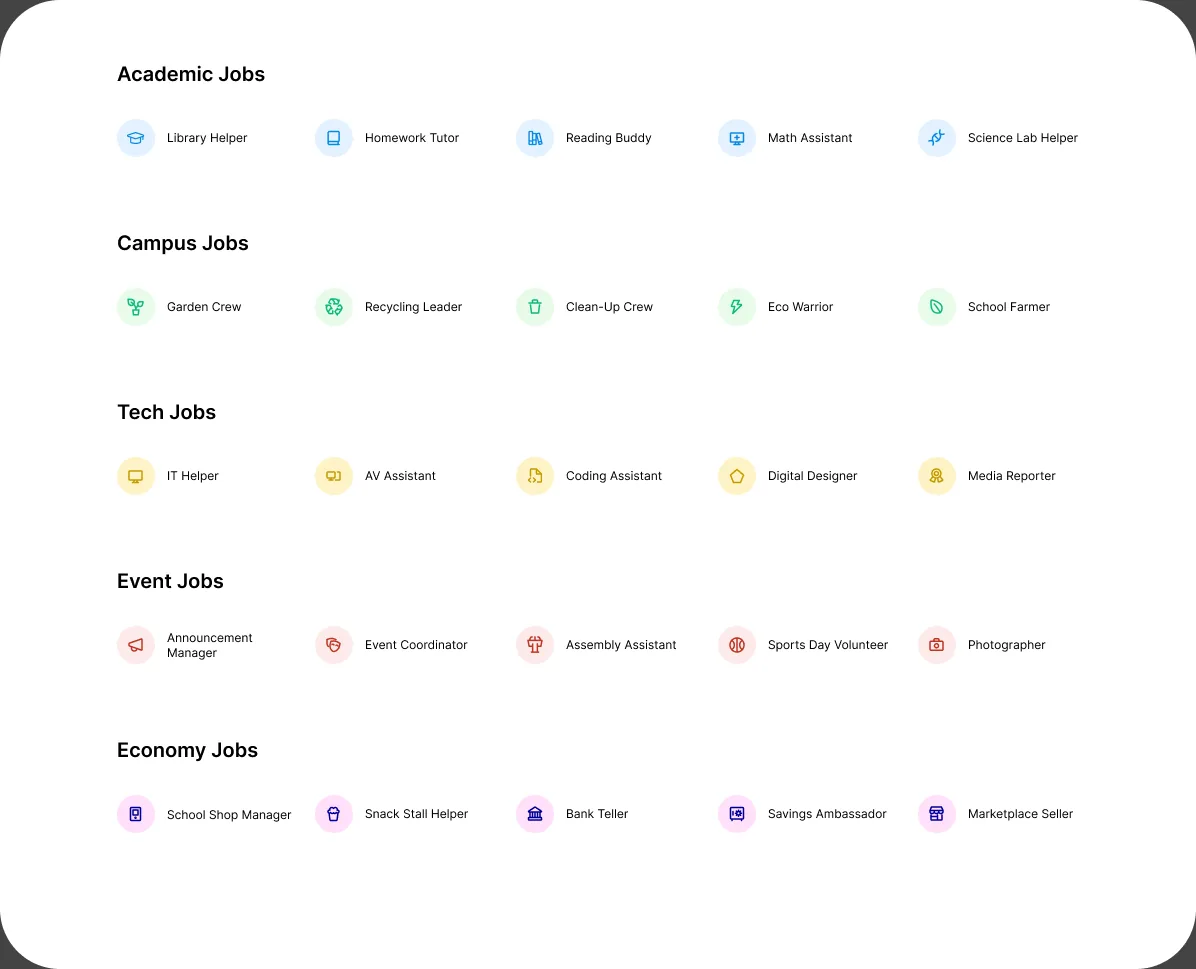
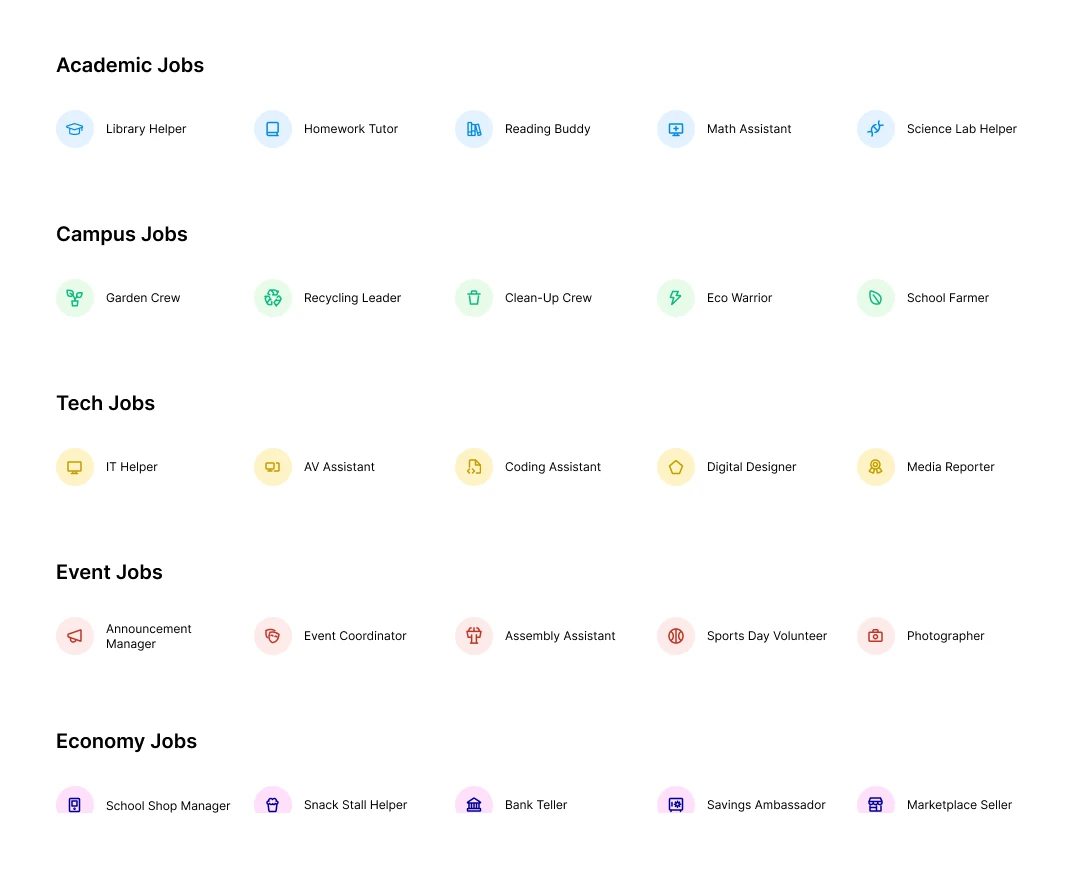
Squirrel: show component crops without browser frame
Badge, job and ranking cards now sit on the stage as clean cards: no
window bar, dark Figma corners removed, whitespace trimmed, full width.

Claude-Session: https://claude.ai/code/session_01JUivA1z2u4mjeoDe4q5T3y

diff --git a/index.html b/index.html
@@ -278,7 +278,7 @@ a:hover .roll span,a:focus-visible .roll span{transform:translateY(-100%)}
 .win img{width:100%}
 .sheet{background:#fff;padding:2.2%;box-shadow:0 30px 60px -30px rgba(0,0,0,.35),0 8px 18px -10px rgba(0,0,0,.18)}
 .stage.board{background:var(--panel);padding:6%}
-.stage.board::before{display:none}
+.stage.board::before{display:none}.stage.bare>img{width:auto;max-width:100%;height:auto;max-height:min(720px,78vh);filter:drop-shadow(0 22px 28px rgba(60,40,20,.18)) drop-shadow(0 4px 8px rgba(60,40,20,.10))}
 .tab{background:#0b0b0c;border-radius:3.4%/4.6%;padding:3%;box-shadow:0 0 0 3px #c2bdb6,0 40px 80px -30px rgba(0,0,0,.45);width:80%!important}
 .tab img{border-radius:1%}
 .photo{overflow:hidden;background:var(--panel)}
@@ -1633,14 +1633,16 @@ const P=[
   ["fig","sq/new-dash","After: the progress bar on top, money in the middle, and rankings, streaks and jobs on the right. Bills to pay sit in My bills, with a Pay now button."],
   ["h3","Rankings","rank-sq","Rankings"],
   ["dec",{n:"Decision 02",h:"How do you make rankings motivating for everyone, not just the top three?",opts:"One class list, as before · only your own rank · your rank at three levels, plus the gap to the next place",chose:"Three ranks: you in your class, your class in the school, and your house. One line says how many points you need to move up.",trade:"The full list of names moves to the Leaderboard page, one click away."}],
-  ["figs",[["sq/c-rank","Rank in class, class in school and house, with the gap to first place."],["sq/b-rank","Ranking badges, from Top 10 in class up to #1 in the school."]],2],
+  ["fig","sq/c-rank","Rank in class, class in school and house, with the gap to first place."],
+  ["fig","sq/b-rank","Ranking badges, from Top 10 in class up to #1 in the school."],
   ["h3","Badges and streaks","badges-sq","Badges and streaks"],
   ["dec",{n:"Decision 03",h:"What should students collect?",opts:"Points only · general badges · badges tied to money habits",chose:"40 badges in 8 groups, each for a money habit: learning, points, dream purchases, bills, jobs, savings, investing and rankings. Logging in every day builds a streak that adds bonus points.",trade:"40 badges to draw and keep balanced."}],
   ["fig","sq/new-streak","Streaks and awards: the streak on a calendar, the bonus each day earned, and the badges collected so far."],
   ["fig","sq/b-learn","Learning badges, from First Acorn (first lesson) to Certified Financier (every lesson in the year)."],
   ["h3","School jobs","jobs-sq","School jobs"],
   ["dec",{n:"Decision 04",h:"How do students earn money in a way that feels like real work?",opts:"A fixed salary, as before · chores set by the teacher · a jobs board students apply to",chose:"A jobs board with 25 school jobs in five groups. Each shows the pay and the hours. Students apply, wait for approval, then get paid when the work is done.",trade:"Someone at school has to approve each application."}],
-  ["figs",[["sq/new-jobs","All jobs: active, pending, open and completed, with earnings, hours and rating."],["sq/b-jobs","The 25 jobs: academic, campus, tech, events and economy."]],2],
+  ["fig","sq/new-jobs","All jobs: active, pending, open and completed, with earnings, hours and rating."],
+  ["fig","sq/b-jobs","The 25 jobs: academic, campus, tech, events and economy."],
   ["h3","Wellbeing check-in","wellbeing-sq","Wellbeing check-in"],
   ["dec",{n:"Decision 05",h:"How do you ask a child how they feel without it feeling like a test?",opts:"A survey form · an emoji scale · six squirrel faces",chose:"Before the dashboard opens, six squirrel faces to choose from, and an optional note. A line under it says their feelings come first.",trade:"One more step when students log in, though they can close it."}],
   ["fig","sq/new-mood","The check-in: happy, excited, angry, sad, scared or calm. Teachers asked to see this, and how it changes over time."],
@@ -1707,6 +1709,7 @@ const COVER=id=>MOCK[id]?`mock/${id}-cover`:(OWN[id]||null);
 const HERO=id=>MOCK[id]?`mock/${id}-hero`:null;
 const BOARD=new Set(["zb/v3-ia","zb/v4-modules-stages","25-66","25-412","25-455","26-194","8-40","25-299","6-61","43-355-r","70-68","25-270","26-56"]);
 const TABLET=new Set(["8-102"]);
+const BARE=new Set(["sq/c-rank","sq/b-rank","sq/b-learn","sq/b-jobs"]);
 const SIZE={"zb/v3-builder": 1.78, "zb/v3-configure-bot": 1.01, "zb/v3-control-tower": 1.64, "zb/v3-crew-canvas": 1.78, "zb/v3-ia": 2.74, "zb/v3-import-agent": 1.78, "zb/v3-prompt-manager": 1.78, "zb/v3-test-crew": 1.78, "zb/v4-builder-v0": 1.78, "zb/v4-builder-v1": 1.78, "zb/v4-builder-v2": 1.78, "zb/v4-builder-v3": 1.78, "zb/v4-compliance": 1.78, "zb/v4-dashboard": 1.78, "zb/v4-dataset-builder": 1.78, "zb/v4-design-identity": 1.19, "zb/v4-github": 1.78, "zb/v4-gov-solution": 1.78, "zb/v4-interview-data": 1.78, "zb/v4-modules-stages": 1.58, "zb/v5-ask-connection": 1.67, "zb/v5-computed-policy": 1.78, "zb/v5-editor-sessions": 1.78, "zb/v5-github-unsynced": 1.67, "zb/v5-members": 1.78, "zb/v5-observatory": 1.67, "zb/v5-requests-admin": 1.67, "zb/v5-requests-builder": 1.67, "zb/v5-session-done": 1.78, "zb/v5-toast": 1.67, "zb/v5-violation": 1.78, "70-48": 1.78, "70-68": 2.4, "70-75": 1.78, "70-79": 1.78, "70-84": 1.78, "70-88": 1.64, "70-149": 1.78, "70-170": 1.77, "70-174": 1.77, "70-194": 1.41, "70-199": 1.77, "70-203": 1.77, "71-40": 1.67, "71-44": 1.67, "71-64": 1.67, "71-68": 1.65, "71-85": 1.67, "71-94": 1.78, "88-159": 1.78, "88-164": 1.78, "88-170": 1.78, "86-72": 1.78, "86-76": 1.78, "86-81": 1.78, "88-175": 1.78, "88-179": 1.78, "88-183": 1.78, "87-125": 1.78, "88-188": 1.78, "88-196": 1.78, "88-40": 1.78, "88-44": 2.85, "53-145-r": 1.72, "55-305-r": 2.48, "55-89-r": 1.69, "55-93-r": 1.78, "55-97-r": 1.78, "55-101-r": 3.07, "55-121-r": 3.89, "55-179-r": 3.69, "55-188-r": 2.15, "55-208-r": 3.95, "55-217-r": 1.7, "55-221-r": 1.7, "55-266-r": 3.07, "55-270-r": 3.11, "42-115-r": 2.83, "43-131-r": 1.86, "43-135-r": 1.75, "43-140-r": 3.88, "43-144-r": 1.98, "43-148": 3.9, "43-169-r": 1.78, "43-173-r": 1.78, "43-177-r": 1.78, "43-195-r": 1.78, "43-199-r": 1.78, "43-307-r": 4.78, "43-312-r": 1.78, "43-320-r": 1.78, "43-338-r": 1.77, "43-347-r": 1.78, "43-355-r": 1.56, "25-245": 0.86, "25-270": 1.38, "25-299": 1.95, "25-316": 0.92, "25-333": 0.98, "6-61": 1.88, "6-81": 1.78, "6-98": 1.78, "6-101": 1.78, "6-118": 1.78, "6-121": 1.78, "6-168": 1.78, "25-62": 1.2, "25-66": 1.65, "25-74": 2.61, "25-78": 2.25, "25-99": 0.95, "25-117": 1.58, "25-121": 1.54, "25-138": 1.29, "25-185": 1.02, "25-401": 1.27, "25-412": 1.59, "25-433": 1.43, "25-451": 1.2, "25-455": 1.59, "26-56": 1.38, "26-73": 0.98, "26-137": 1.16, "8-40": 1.73, "8-60": 1.78, "8-76": 1.78, "8-102": 1.33, "26-194": 1.65, "26-205": 0.64, "26-226": 0.79, "26-251": 1.16, "26-308": 1.78, "26-312": 1.78, "26-333": 1.78, "26-351": 1.78, "26-367": 1.0, "27-54": 1.78, "27-58": 1.78, "27-63": 1.78, "27-67": 1.78, "27-141": 0.77, "27-153": 1.78, "27-157": 1.27, "26-459": 1.85, "26-471": 1.77, "26-475": 1.76, "27-225": 1.07, "27-237": 1.78, "27-241": 1.78, "27-309": 2.75, "27-326": 1.4, "27-393": 1.13, "27-401": 0.9, "27-405": 1.57, "27-466": 0.5, "27-474": 0.74};
 const GROUP={zbrain:"agentic",xplr:"agentic","ce-agent":"copilots","mdm-copilot":"copilots","advanced-hunting":"security",cipherstar:"security","watchtower-onboarding":"security",crestos:"tools",loom:"tools",squirrel:"product",chaperone:"product"};
 const grp=p=>p.tier===3?"craft":GROUP[p.id];
@@ -1744,6 +1747,7 @@ function figure(f,c,pid,small){
   const img=`<img src="${IMG(f)}" alt="${esc(c)}" loading="lazy" decoding="async">`;
   let inner;
   if(craft) inner=`<div class="photo rv-img">${img}</div>`;
+  else if(BARE.has(f)) inner=`<div class="stage th-${THEME[pid]||"stone"} bare rv-img">${img}</div>`;
   else if(TABLET.has(f)) inner=`<div class="stage th-${THEME[pid]||"stone"} rv-img"><div class="tab">${img}</div></div>`;
   else{
     const r=SIZE[f]||1.7, ui=!BOARD.has(f)&&r>1.5&&r<2.05;
